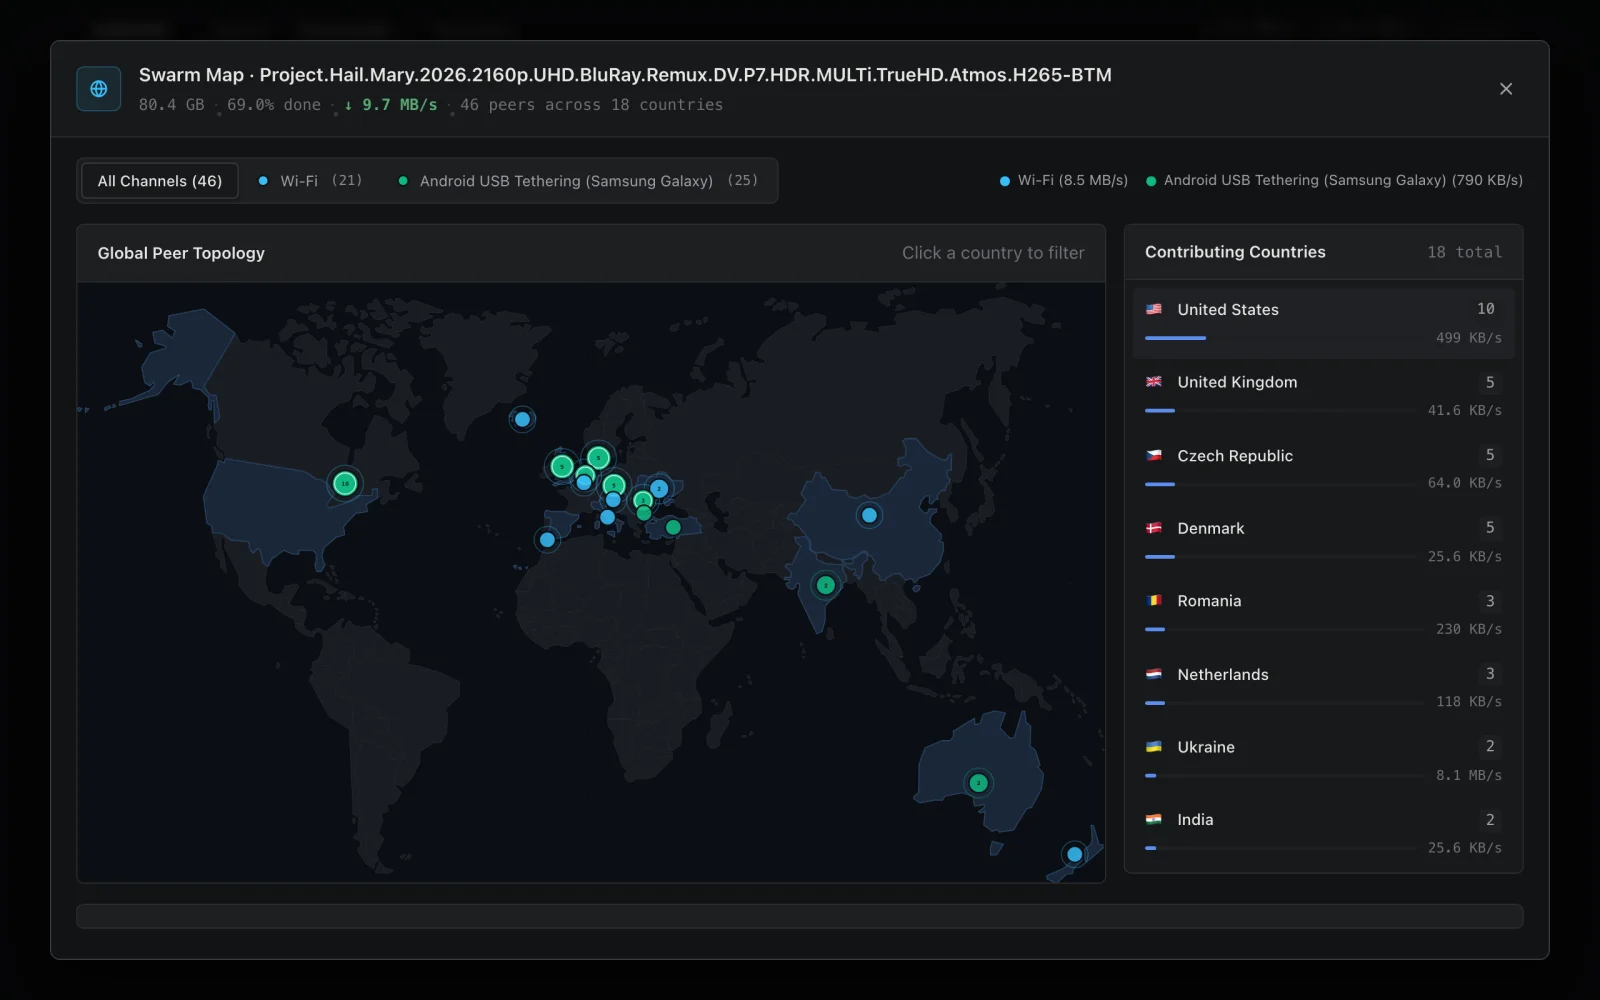
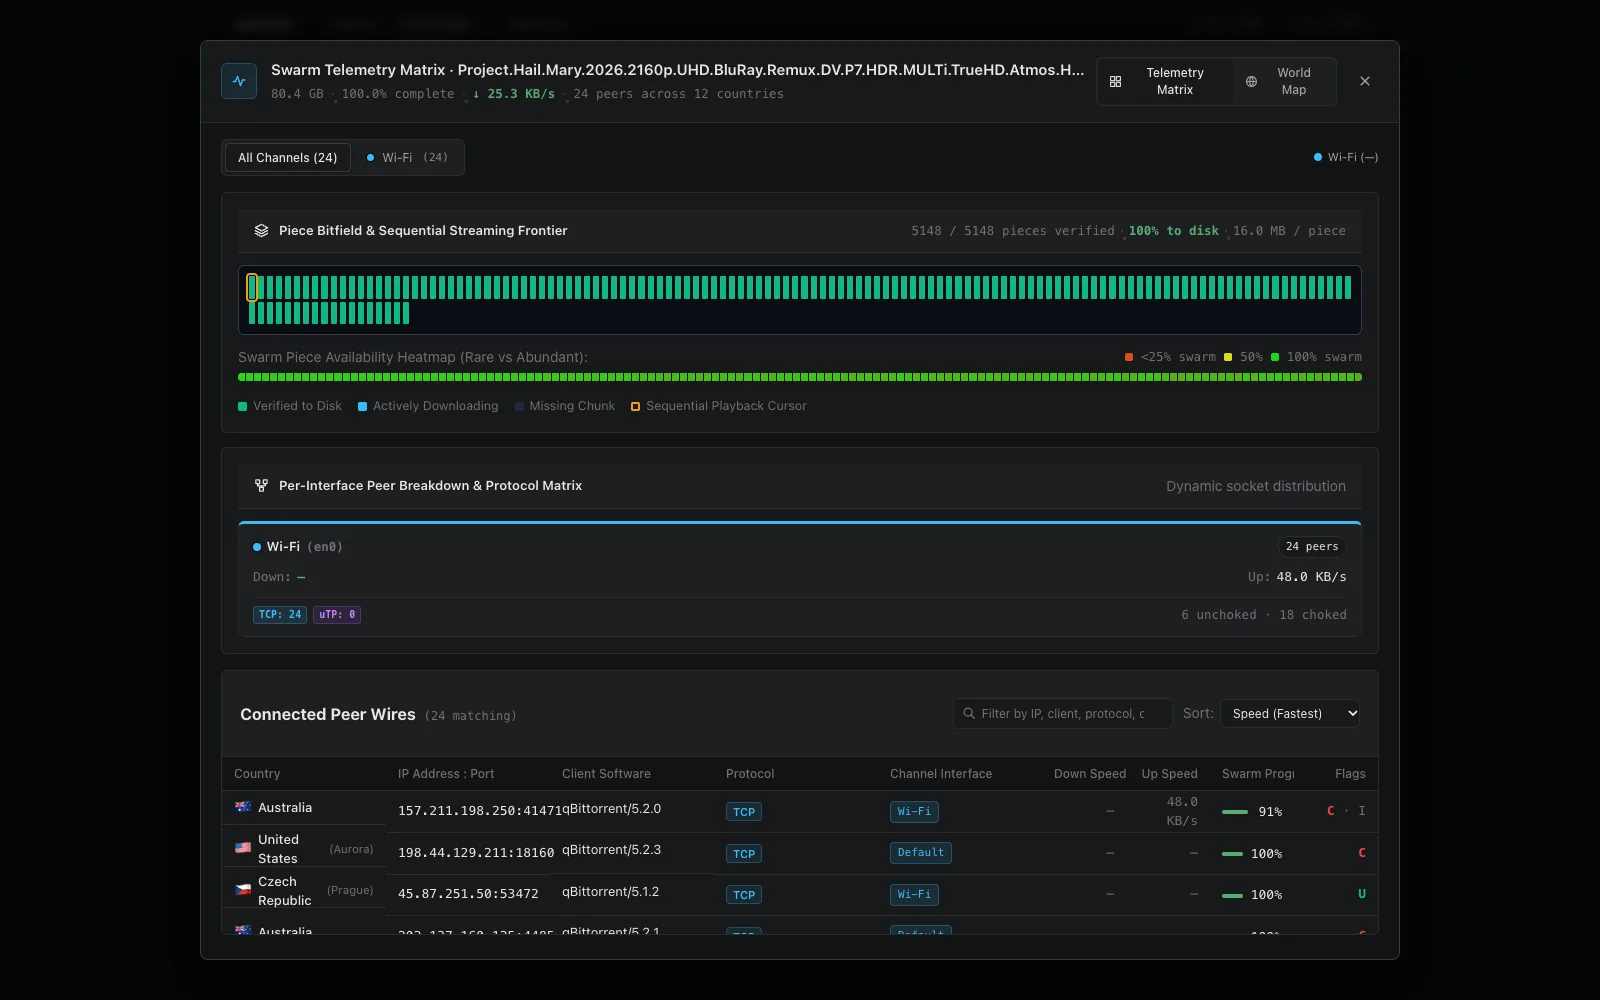
docs: update third screenshot to showcase Swarm Telemetry Matrix and bust GitHub Camo cache

diff --git a/frontend/src/DownloadsManager.jsx b/frontend/src/DownloadsManager.jsx
@@ -1,4 +1,4 @@
-import { useState } from 'react';
+import { useState, useEffect } from 'react';
 import { TorrentDetails } from './TorrentDetails';
 import { SwarmModal } from './SwarmModal';
 import { Icon } from './Icon';
@@ -30,6 +30,12 @@ export function DownloadsManager({ torrents, setTorrents, refresh, notify, onGoS
   const [resumeModalOpen, setResumeModalOpen] = useState(false);
   const [magnetInput, setMagnetInput] = useState('');
   const [resuming, setResuming] = useState(false);
+
+  useEffect(() => {
+    if (window.location.hash.includes('swarm=open') && torrents.length > 0) {
+      setSwarmTorrent(torrents[0]);
+    }
+  }, [torrents]);
 
   const counts = {
     all: torrents.length,

diff --git a/frontend/src/App.jsx b/frontend/src/App.jsx
@@ -7,8 +7,9 @@ import { apiGet, formatSpeed } from './lib';
 
 const routeFromPath = () => {
   const p = window.location.pathname;
-  if (p.startsWith('/downloads')) return 'downloads';
-  if (p.startsWith('/networks')) return 'networks';
+  const h = window.location.hash;
+  if (p.startsWith('/downloads') || h.includes('downloads')) return 'downloads';
+  if (p.startsWith('/networks') || h.includes('networks')) return 'networks';
   return 'search';
 };
 

diff --git a/README.md b/README.md
@@ -35,7 +35,7 @@ $$\text{Download ETA} \times 1.20 \le \text{Video Runtime}$$
 #### 2.3 Swarm Telemetry Matrix & Peer Inspector
 Every download row includes an isolated Swarm button opening a per-torrent inspector with a dual-view switcher:
 
-![Swarm Telemetry Matrix and Peer Inspector](docs/screenshots/swarm_modal.webp)
+![Swarm Telemetry Matrix and Peer Inspector](docs/screenshots/swarm_modal.webp?v=telemetry-matrix)
 
 - **Piece Bitfield & Sequential Streaming Frontier**: Renders verified chunk blocks on disk alongside real-time download blocks and the sequential playback frontier cursor.
 - **Swarm Piece Availability Heatmap**: Visualizes piece availability rarity across all connected peers from rare (<25%) to abundant (100%).
